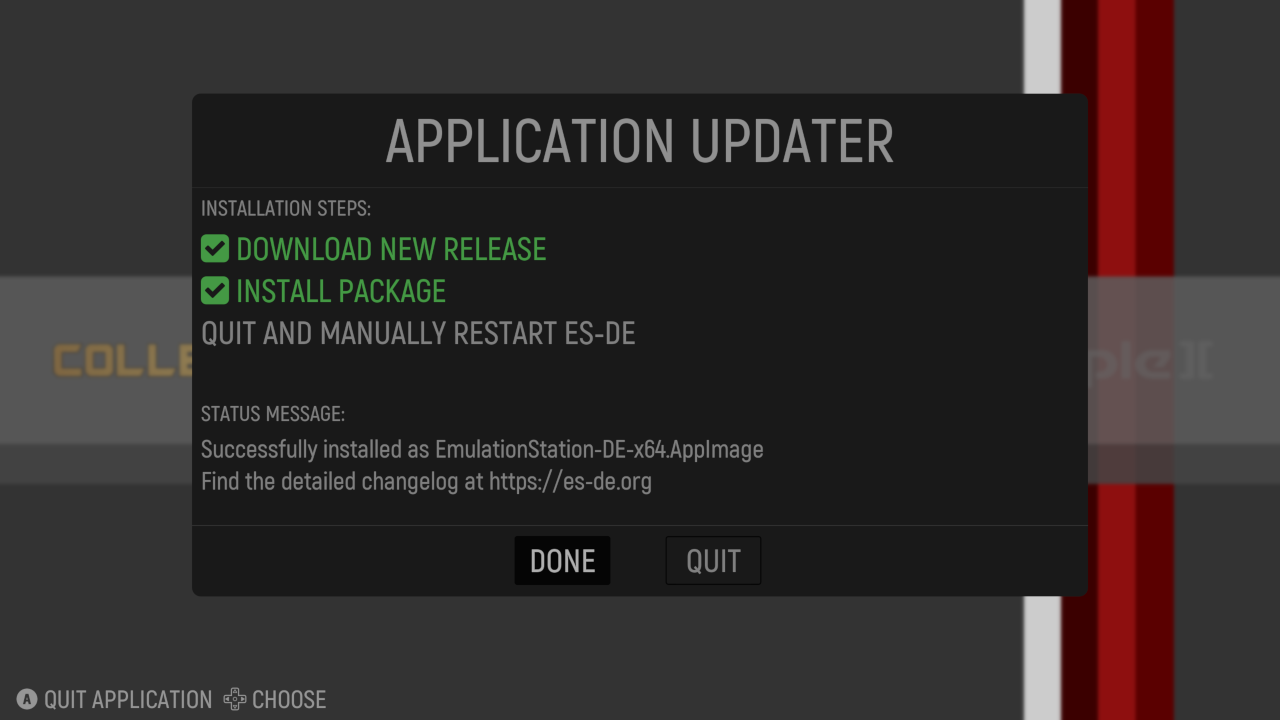
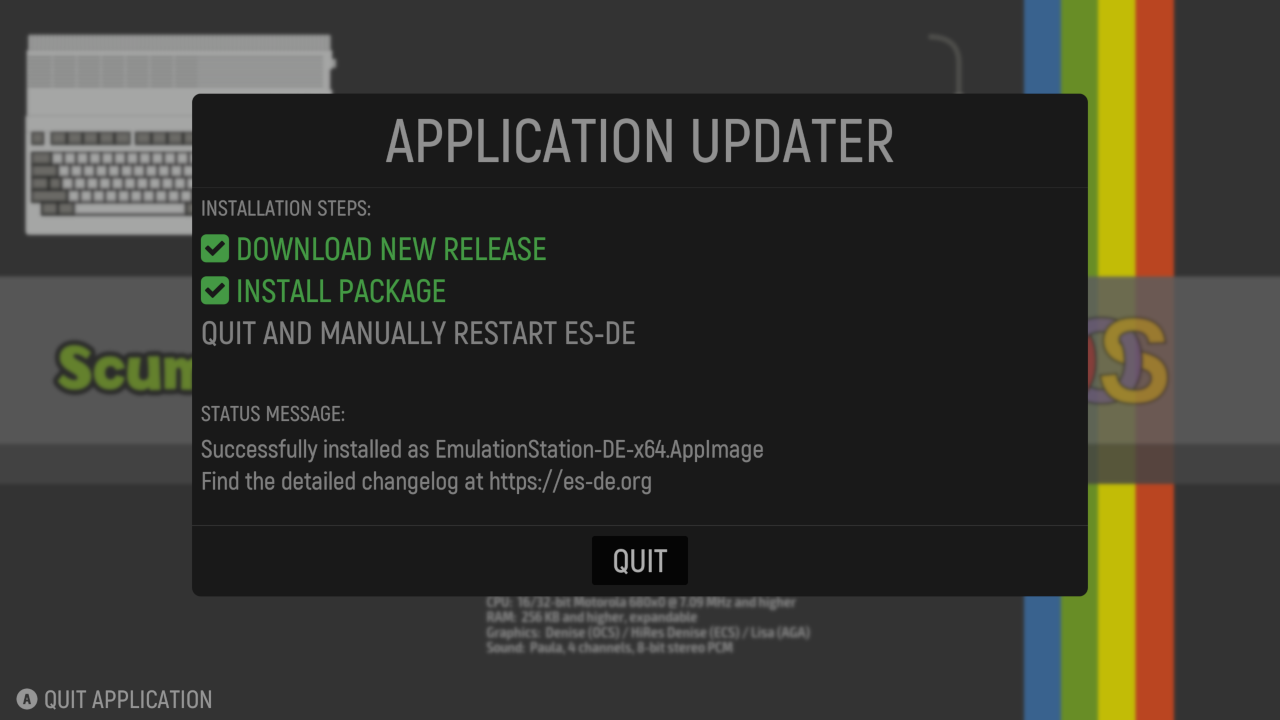
Documentation update

diff --git a/USERGUIDE-DEV.md b/USERGUIDE-DEV.md
@@ -120,26 +120,22 @@ _This is the dialog shown if no game files were found. It lets you configure the
 
 **Note:** Before upgrading ES-DE, make sure that you have not made any system customizations anywhere in the installation directory structure as these files will be overwritten during the upgrade process. All customizations should go into ~/.emulationstation/custom_systems/ as described elsewhere in this guide. None of the upgrade methods mentioned below will ever touch any files inside your .emulationstation directory tree.
 
-As of ES-DE 2.1.0 there is a built-in application updater that can update the Linux AppImage releases. Later on this will hopefully be expanded to cover more package formats and operating systems. Its use is straightforward, just follow the on-screen instructions. The old AppImage file is retained by renaming it, adding its version to the filename followed by the .OLD extension, for example `EmulationStation-DE-x64_SteamDeck.AppImage_2.1.0.OLD`
+There is a built-in application updater that can automatically update the Linux AppImage releases, and as of ES-DE 2.2.0 there is also support for downloading the Windows and macOS packages. Just be aware that these will still need to be manually installed. Using the application updater is straightforward, just follow the on-screen instructions. For the AppImage releases the old file is retained by renaming it, adding its version to the filename followed by the .OLD extension, for example `EmulationStation-DE-x64_SteamDeck.AppImage_2.1.0.OLD`
 
 Note that the updater will keep whatever filename you had for your running AppImage file, which could potentially be confusing if you for example added version information to the filename. It's always recommend to keep the default AppImage filenames, i.e. `EmulationStation-DE-x64.AppImage` and `EmulationStation-DE-x64_SteamDeck.AppImage`
 
 Regardless of package format and operating system it's a good idea to update the ROMs directory tree after upgrading to a new version. It's possible that the new ES-DE release adds support for more systems and emulators compared to the version you previously had installed. The easiest way to do this is to start ES-DE once with the _--create-system-dirs_ command line option which will create any missing system directories and also update the systems.txt and systeminfo.txt files. This is a safe operation as it will not overwrite or delete your game files.
 
 ![alt text](images/es-de_application_updater.png "ES-DE Application Updater")
-_This is what the application updater looks like when the update process has been completed._
-
-**Linux .deb package**
-
-Upgrading ES-DE using this package type is very straightforward, just run it through the package manager of your operating system and the process should be entirely automatic.
-
-**Linux AUR**
-
-AUR upgrades should be automatically handled via your package manager and it should be a completely automatic process. When a new release is available you should be notified of this.
+_This is what the application updater looks like when the update process has been completed for the Linux AppImage release._
 
 **Linux AppImage**
 
 Use the built-in application updater as described above.
+
+**Linux AUR**
+
+AUR upgrades should be automatically handled via your package manager and it should be a completely automatic process. When a new release is available you should be notified of this.
 
 **macOS**
 

diff --git a/CHANGELOG.md b/CHANGELOG.md
@@ -11,22 +11,27 @@
 * Completely removed support for legacy EmulationStation themes
 * Removed the "Legacy gamelist view style" and "Legacy theme transitions" settings
 * Removed the "Display pillarboxes for gamelist videos" and "Render scanlines for gamelist videos" settings
+* Added a utility for removing orphaned data (game media, gamelist entries and custom collection entries)
+* Added support for downloading the Windows and macOS packages via the application updater (manual installation still required)
 * Added support for pasting text into the application (when a text input field is focused)
 * Added support for using most characters (including multi-byte Unicode characters) in custom collection names
 * Added a new Utilities menu to the main menu
 * Added an entry to the Utilities menu for rescanning the ROM directory
-* Added a utility for removing orphaned data (game media, gamelist entries and custom collection entries)
 * Added ares standalone as an alternative emulator for the gamegear, gb, gba, gbc and satellaview systems
 * Changed the "no games" dialog to no longer save the ROM directory to es_settings.xml if its value hasn't changed
 * When editing custom collections with really long names, the "Y" helpsystem text now gets abbreviated
 * Removed Linux DEB package support from ApplicationUpdater as these packages are no longer provided
 * Changed ComponentList to fixed row heights which fixed many alignment issues
 * Improved the layout for the scraper and theme downloader to look more consistent across different display aspect ratios
+* Added a download percentage indicator to the application updater
 * Made the miximage offline generator GUI sizing more consistent across different display aspect ratios
 * Removed the es_log.txt entry when an es_systems.cfg legacy systems configuration file was found on startup
 * Improved menu system font rendering on GPUs without proper texture filtering support
 * Added theme support for the "manual" metadata type for the text element
+* Changed the application updater to not use the scraper's transfer and connection timeout settings
 * Replaced a number of homecooked functions in FileSystemUtil with those from the C++ standard library
+* (Windows) Added a warning dialog on startup if an unsafe upgrade of the portable release has been made
+* (Windows) Improved the README.txt file for the portable release
 * (macOS) Changed the minimum required OS version from 10.14 "Mojave" to 10.15 "Catalina"
 * (macOS) Completely removed support for the legacy OS build
 * Updated LunaSVG to 2.3.6

diff --git a/USERGUIDE.md b/USERGUIDE.md
@@ -127,17 +127,13 @@ Regardless of package format and operating system it's a good idea to update the
 ![alt text](images/es-de_application_updater.png "ES-DE Application Updater")
 _This is what the application updater looks like when the update process has been completed._
 
-**Linux .deb package**
+**Linux AppImage**
 
-Upgrading ES-DE using this package type is very straightforward, just run it through the package manager of your operating system and the process should be entirely automatic.
+Use the built-in application updater as described above.
 
 **Linux AUR**
 
 AUR upgrades should be automatically handled via your package manager and it should be a completely automatic process. When a new release is available you should be notified of this.
-
-**Linux AppImage**
-
-Use the built-in application updater as described above.
 
 **macOS**
 
